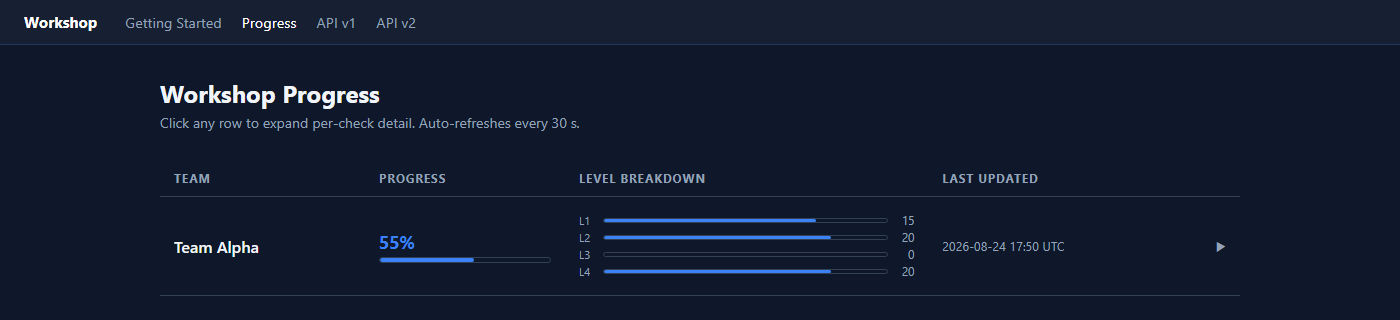
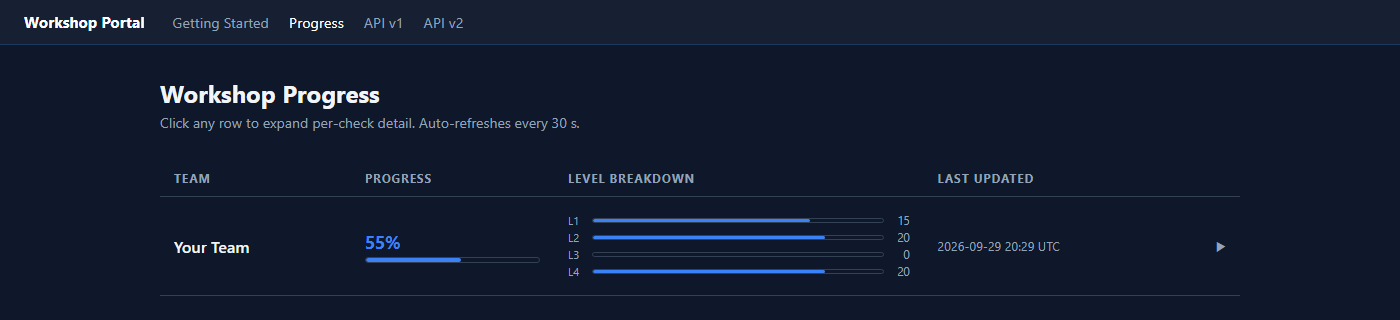
Rename scoreboard.py to portal.py and scoreboard.json to portal.json.
Also label the nav bar 'Workshop Portal', ignore .env files, and retake
the README screenshots.

diff --git a/portal.py b/portal.py
@@ -3,7 +3,7 @@ import json
 from http.server import BaseHTTPRequestHandler, ThreadingHTTPServer
 from pathlib import Path
 
-BOARD = Path("scoreboard.json")
+BOARD = Path("portal.json")
 DATA = Path(__file__).parent / "data"
 
 LEVEL_META = {
@@ -24,7 +24,7 @@ def _nav(active: str = "/") -> str:
     )
     # navBase() detects the app's URL prefix regardless of how it is served:
     #   direct localhost:8081 → base = "/"
-    #   nginx /scoreboard/ prefix → base = "/scoreboard/"
+    #   nginx /portal/ prefix → base = "/portal/"
     #   VS Code /proxy/8081/ forwarding → base = "/proxy/8081/"
     # It strips any known page suffix from the path to find the root.
     fix = (
@@ -50,7 +50,7 @@ def _nav(active: str = "/") -> str:
     )
     return (
         '<nav>'
-        '<span class="brand">Workshop</span>'
+        '<span class="brand">Workshop Portal</span>'
         f'{items}'
         '</nav>'
         + fix
@@ -109,7 +109,7 @@ def _swagger_page(version: str) -> str:
 </html>"""
 
 
-# ── Scoreboard page ───────────────────────────────────────────────────────────
+# ── Progress page ─────────────────────────────────────────────────────────────
 
 def _board_page() -> str:
     entries = json.loads(BOARD.read_text()) if BOARD.exists() else []

diff --git a/docs/build_online_session_slides.py b/docs/build_online_session_slides.py
@@ -517,7 +517,7 @@ def build(path):
     y = callout(
         c,
         "Activity instructions live on the Guide tab",
-        "After you run python scoreboard.py, your browser opens http://localhost:8081. That Getting Started page walks through the activity: pick a level, ask the AI, edit workshop.py, then check your progress.",
+        "After you run python portal.py, your browser opens http://localhost:8081. That Getting Started page walks through the activity: pick a level, ask the AI, edit workshop.py, then check your progress.",
         0.7 * inch,
         y,
         12 * inch,
@@ -548,7 +548,7 @@ def build(path):
         size=14,
         leading=20,
     )
-    y = code_block(c, ["python scoreboard.py"], 0.7 * inch, y, 12 * inch)
+    y = code_block(c, ["python portal.py"], 0.7 * inch, y, 12 * inch)
     urls = [
         ("http://localhost:8081", "Getting Started — opens automatically (Guide tab)"),
         ("http://localhost:8081/progress", "Progress page — updates every 30 seconds"),
@@ -626,7 +626,7 @@ def build(path):
         ("python interact.py", "Explore any level with live AI guidance"),
         ('python score.py --team "Team Name"', "Check your workshop.py progress"),
         ("git push", "Share workshop.py on the team fork"),
-        ("python scoreboard.py", "Opens the Guide at http://localhost:8081"),
+        ("python portal.py", "Opens the Guide at http://localhost:8081"),
     ]
     for cmd, desc in cmds:
         card(c, 0.7 * inch, y - 62, 12 * inch, 58)

diff --git a/score.py b/score.py
@@ -11,12 +11,12 @@ from pathlib import Path
 from api_hackathon.ai import FixtureAI
 from api_hackathon.artifacts import load_json, load_text
 
-BOARD = Path("scoreboard.json")
+BOARD = Path("portal.json")
 REPORT = Path("report.html")
 REPORTS = Path("reports")
 SUBMISSIONS = Path("submissions")
 
-# Maps internal level key → (display name used in scoreboard.json, max points)
+# Maps internal level key → (display name used in portal.json, max points)
 LEVEL_META = {
     "L1": ("L1 Contract review", 20),
     "L2": ("L2 Test design", 25),
@@ -313,7 +313,7 @@ def main() -> None:
             print("\nFailed:")
             for team, err in errors:
                 print(f"  {team}: {err}")
-        print(f"\nScoreboard file → {BOARD.resolve()}")
+        print(f"\nProgress file → {BOARD.resolve()}")
         print("Refresh http://localhost:8081/progress to see all teams.")
         return
 

diff --git a/README.md b/README.md
@@ -36,7 +36,7 @@ Do these in order. When you finish, you have a running progress page and a first
 
 1. Confirm Python 3.10+ (`python --version`). If Python is missing, install it from https://www.python.org/downloads/ and reopen the terminal.
 2. Create an isolated environment with uv (see Install below) so workshop packages do not land in your global Python.
-3. From the repo root, run `python scoreboard.py` and leave that terminal open.
+3. From the repo root, run `python portal.py` and leave that terminal open.
 4. Your browser opens the Guide at `http://localhost:8081` — that is the on-screen activity script. If it does not open, paste that URL into your browser.
 5. Open a second terminal, activate `.venv` again (see Install), then run `python score.py --team "Your Team" --open`. You should see about 55/100 on the unmodified starter.
 6. Set your Workshop Studio credentials (see Install), then run `python interact.py` and pick Level 1. Activate `.venv` in that terminal first.
@@ -45,7 +45,7 @@ You are ready to edit Level 1 in `api_hackathon/workshop.py`.
 
 ## The workshop page
 
-`python scoreboard.py` starts a local page at `http://localhost:8081` and opens it in your browser. Keep it open while you work. It has four tabs:
+`python portal.py` starts a local page at `http://localhost:8081` and opens it in your browser. Keep it open while you work. It has four tabs:
 
 **Getting Started:** a step-by-step guide to the whole activity. Use the arrow keys or Next to move through it.
 
@@ -123,7 +123,7 @@ python scripts/pin_aws_creds.py
 That appends the values to `.venv`'s activate script. Do not commit `.venv`.
 
 ```powershell
-python scoreboard.py
+python portal.py
 ```
 
 Then, with Studio credentials set in the same terminal:
@@ -292,7 +292,7 @@ api_hackathon/ai.py                 fixture AI + Bedrock + optional Ollama adapt
 data/                               synthetic specs, logs, and AI responses
 interact.py                         interactive assistant (Bedrock)
 score.py                            progress checks (always uses FixtureAI)
-scoreboard.py                       local progress page + Guide + Swagger (port 8081)
+portal.py                           local progress page + Guide + Swagger (port 8081)
 pyproject.toml                      uv dependencies (boto3)
 demo.py                             run every level and print raw AI output
 docs/online-session-slides.pdf      online setup session slides

diff --git a/submissions/README.md b/submissions/README.md
@@ -9,14 +9,14 @@ submissions/
 ```
 
 ```powershell
-# Score every team folder and update scoreboard.json
+# Score every team folder and update portal.json
 python score.py --all
 
 # Or score one file by hand
 python score.py --team "Team Alpha" --file "submissions/Team Alpha/workshop.py"
 
 # Keep the live board open for the room
-python scoreboard.py
+python portal.py
 ```
 
 Open http://localhost:8081/progress — every scored team appears. Click a row for per-check detail.
